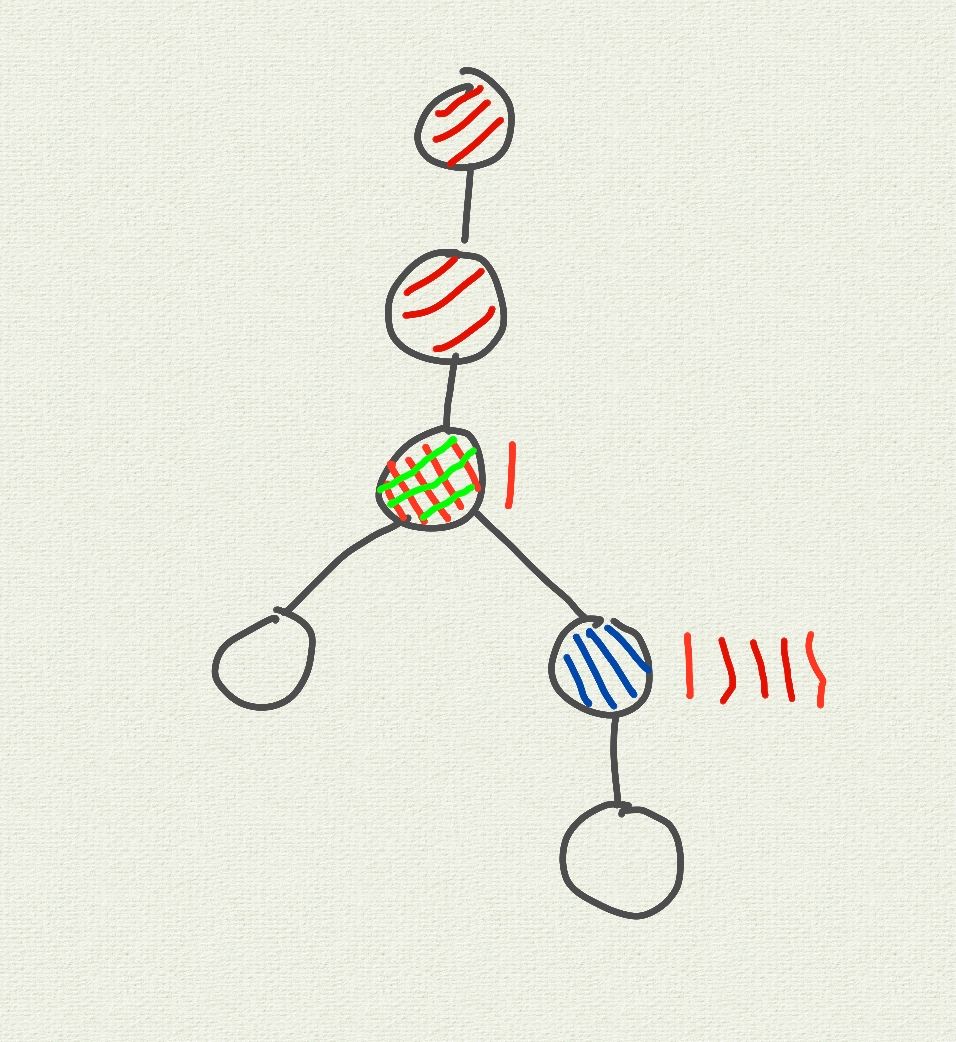
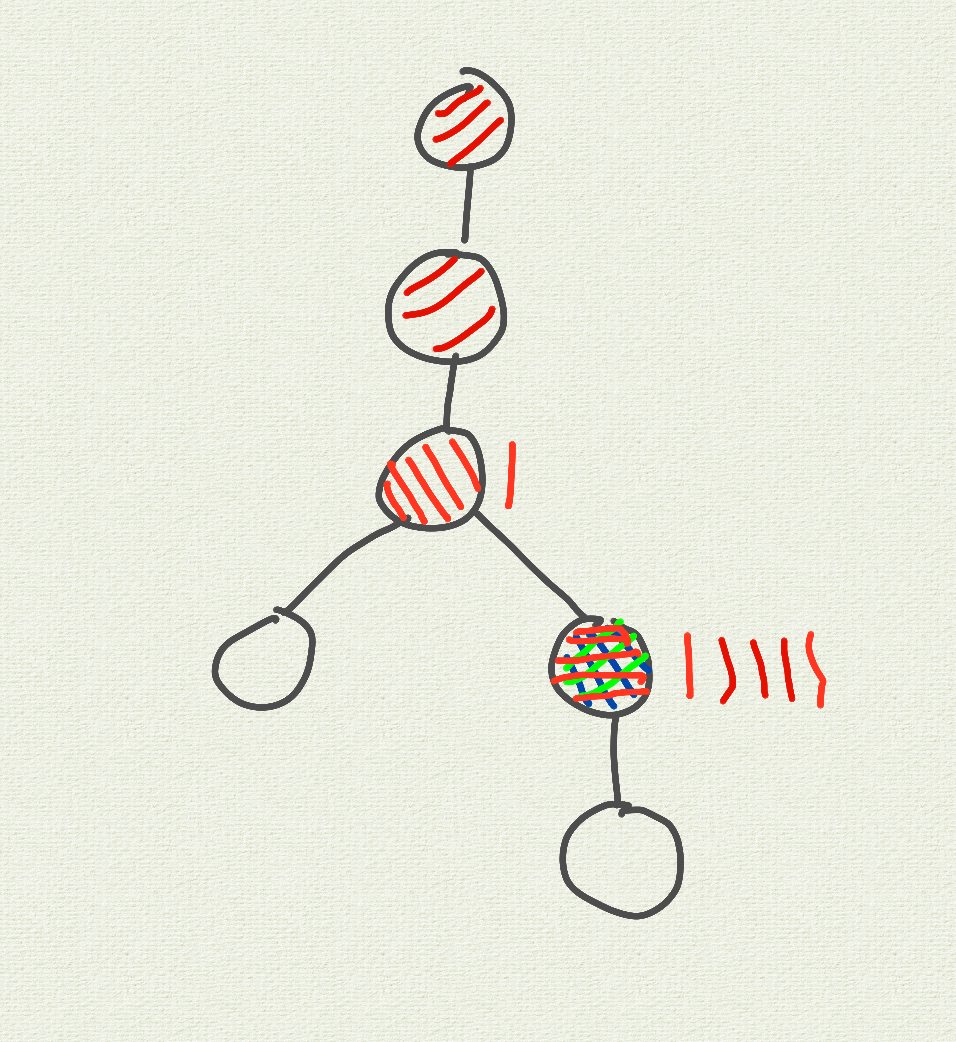
4.6: provide alternative ending for grandpa round example

Changed region(s): [[0.5764, 0.5835, 0.6977, 0.6756], [0.3944, 0.3992, 0.5157, 0.4914]]

diff --git a/syllabus/4-Substrate/4.6-Consensus_Block_Authoring_and_Finality/4.6-Consensus_Block_Authoring_and_Finality_Slides.md b/syllabus/4-Substrate/4.6-Consensus_Block_Authoring_and_Finality/4.6-Consensus_Block_Authoring_and_Finality_Slides.md
@@ -598,9 +598,13 @@ The round is deemed "completable":
  - if the "estimate" is lower than the "prevote-ghost"
  - or if it's impossible to have a supermajority on any block higher than the current "estimate"
 
-Validators start a new round after it becomes "completable", but it is still kept running in the background
+Validators start a new round after it becomes "completable".
 
-The round is deemed "concluded" when the round's "estimate" has been finalized (which might happen in a future round)
+---
+
+## A GRANDPA round
+
+<img style="width: 600px" src="../../../assets/img/4-Substrate/4.6-grandpa-round-6.png"/>
 
 ---
 
@@ -613,6 +617,30 @@ The round is deemed "concluded" when the round's "estimate" has been finalized (
 ## A GRANDPA round
 
 <img style="width: 600px" src="../../../assets/img/4-Substrate/4.6-grandpa-round-8.png"/>
+
+---
+
+## A GRANDPA round (alternative)
+
+<img style="width: 600px" src="../../../assets/img/4-Substrate/4.6-grandpa-round-6.png"/>
+
+---
+
+## A GRANDPA round (alternative)
+
+<img style="width: 600px" src="../../../assets/img/4-Substrate/4.6-grandpa-round-7-alternative.png"/>
+
+---
+
+## A GRANDPA round (alternative)
+
+<img style="width: 600px" src="../../../assets/img/4-Substrate/4.6-grandpa-round-8-alternative.png"/>
+
+---
+
+## A GRANDPA round (alternative)
+
+<img style="width: 600px" src="../../../assets/img/4-Substrate/4.6-grandpa-round-9-alternative.png"/>
 
 ---
 
